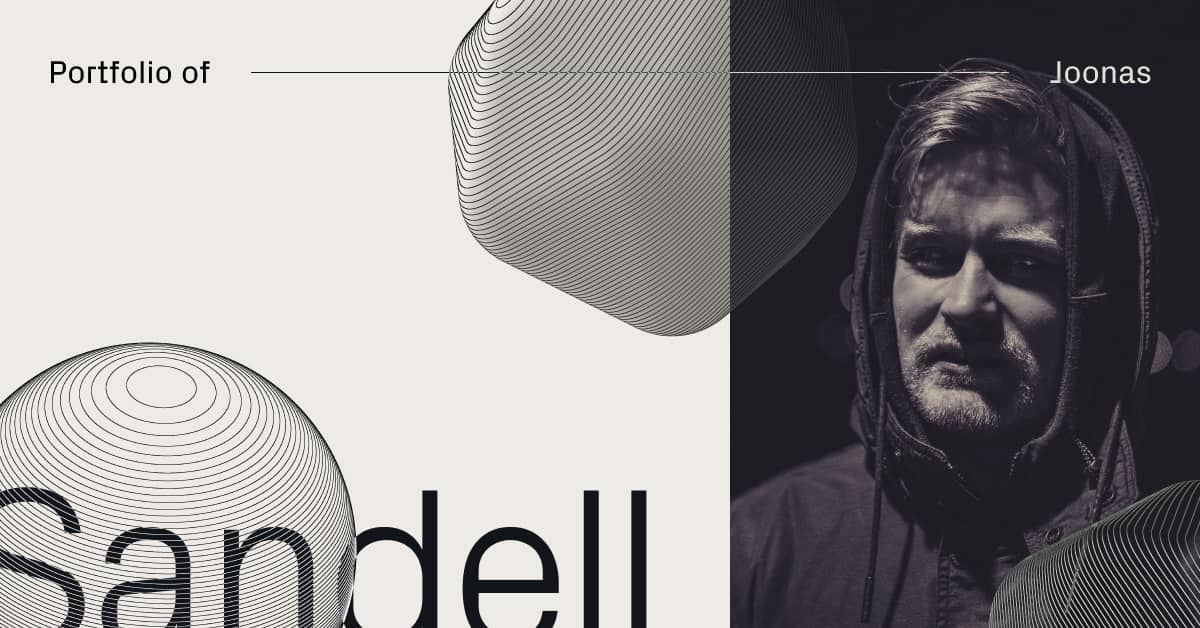
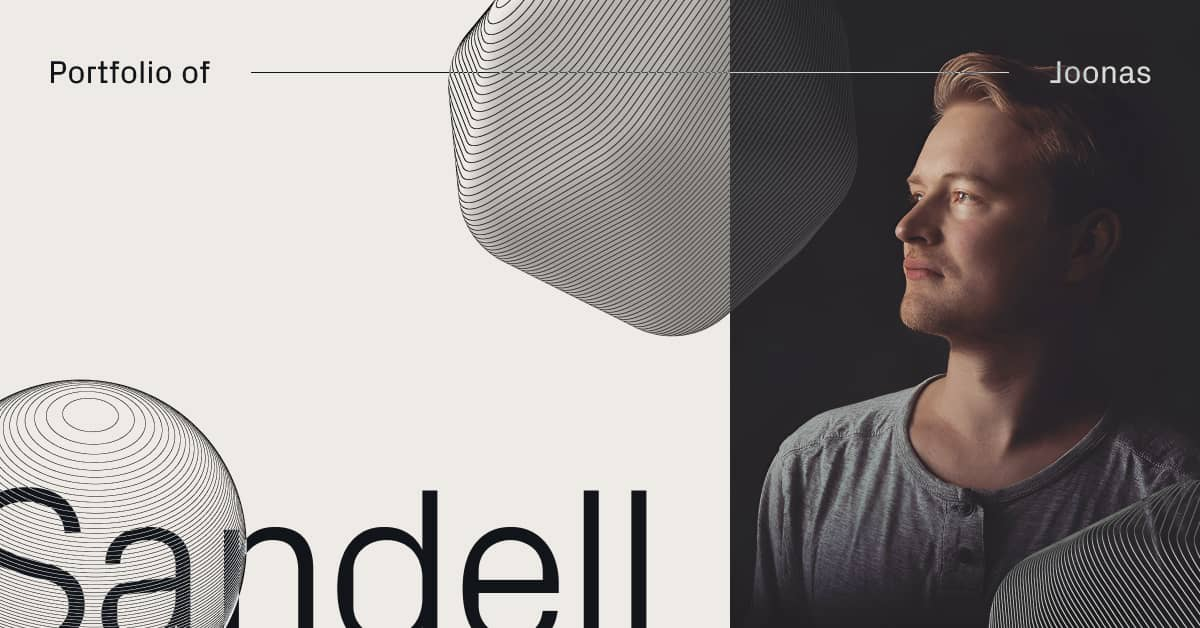
Update og image

diff --git a/components/App/AppHead.tsx b/components/App/AppHead.tsx
@@ -23,7 +23,7 @@ export const AppHead = ({ themeColor }: AppHeadProps) => {
         property="og:description"
       />
       <meta
-        content={`${APP_URL}/static/og-image.jpg?v=2`}
+        content={`${APP_URL}/static/og-image.jpg?v=3`}
         property="og:image"
       />
       <meta content="en" property="og:locale" />
@@ -41,7 +41,7 @@ export const AppHead = ({ themeColor }: AppHeadProps) => {
       <meta content="summary_large_image" property="twitter:card" />
       <meta content="@joonassandell" property="twitter:creator" />
       <meta
-        content={`${APP_URL}/static/og-image.jpg?v=2`}
+        content={`${APP_URL}/static/og-image.jpg?v=3`}
         property="twitter:image"
       />
       <meta content="@joonassandell" property="twitter:site" />
